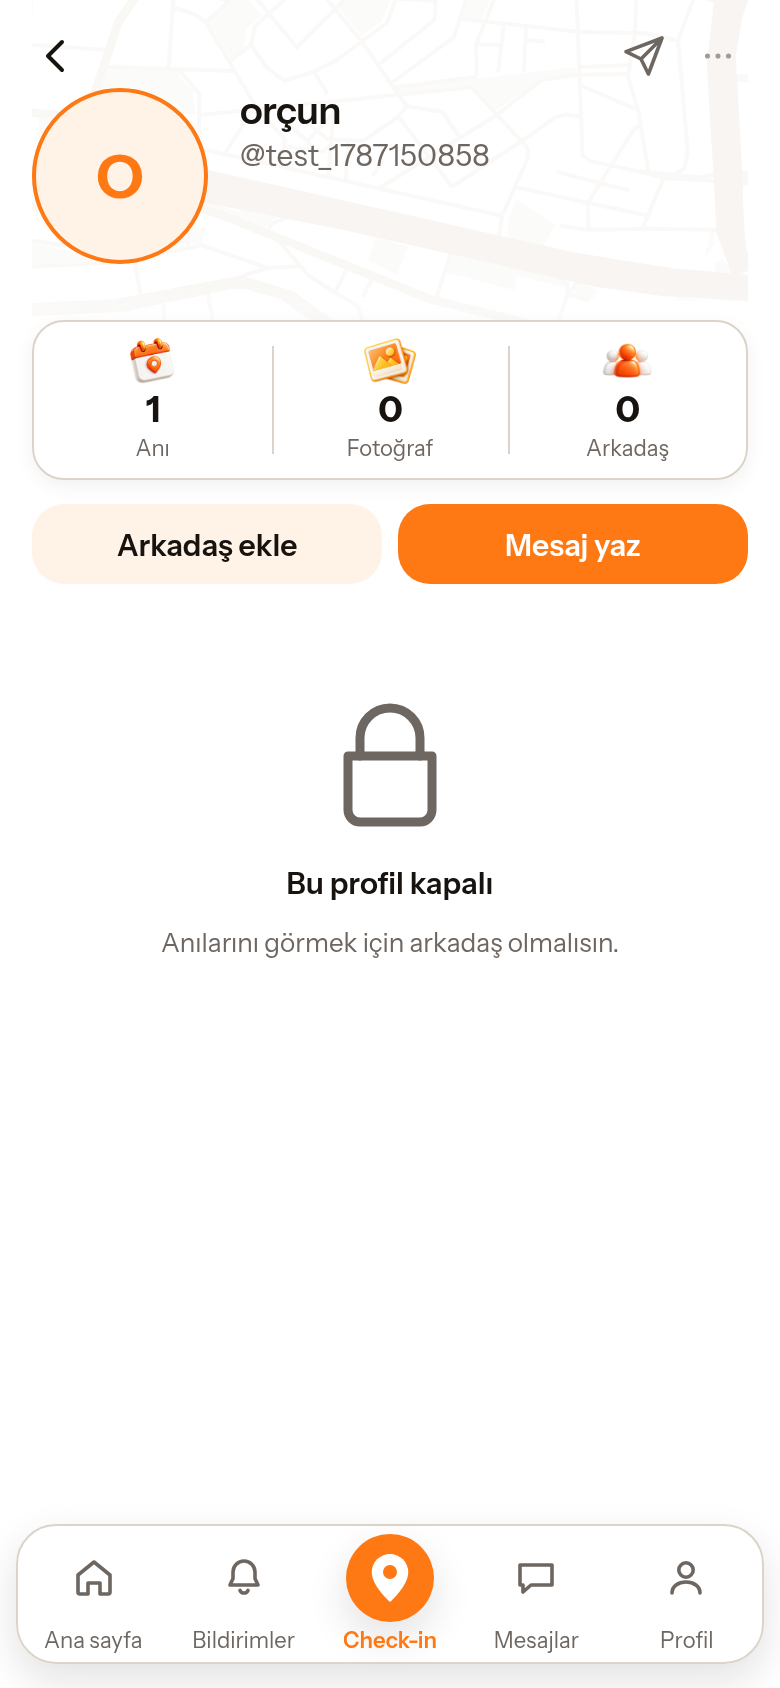
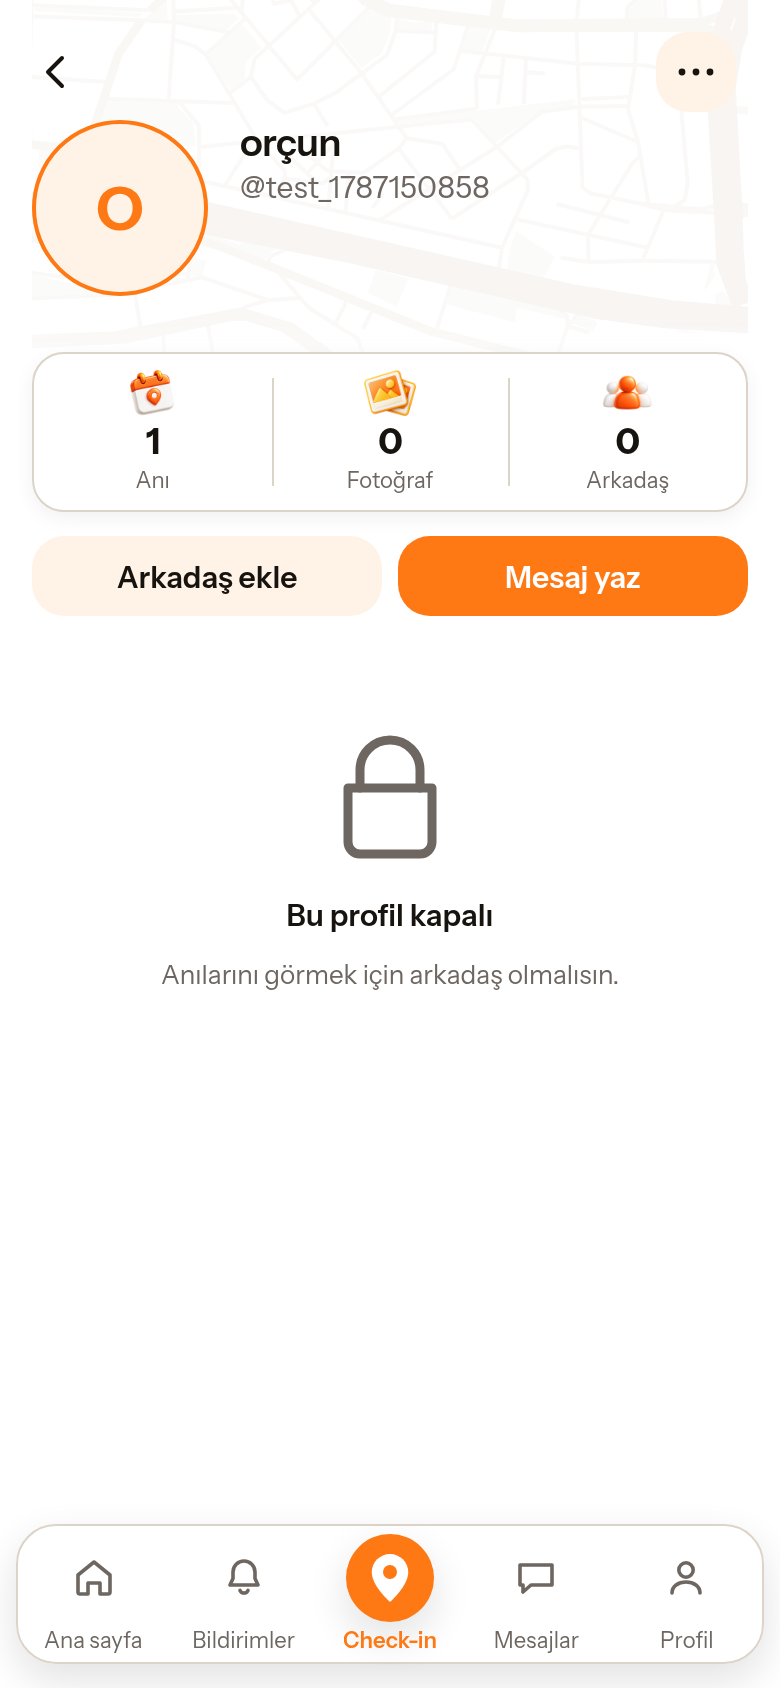
feat(kullanici): ust cubukta tek dugme - paylas menuye girdi, uc nokta belirginlesti
Kullanicinin istegi: "sag ustteki paylasma butonunu da kaldir, uc
noktaya basilinca profili paylas / engelle / sikayet et gelsin, uc
noktayi da daha belirgin bir hale getir".

- Paylas ikonu ust cubuktan kalkti; "Profili paylaş" menunun ILK
  satiri. Menu: Profili paylaş / Şikâyet et / Engelle (yikici en
  altta, kirmizi).
- Uc nokta artik seftali daire icinde (40 px, kesfetteki suzgec
  dugmesiyle ayni desen) ve koyu renkte - soluk gri ikon beyaz
  zeminde kayboluyordu.
- UcNoktaIkonu istege bagli boyut/renk aliyor; varsayilanlar
  DEGISMEDI, akis karti ve yorumlardaki menuler ayni kaldi.

Jest 76 paket / 1006 test; tsc'de yeni hata yok.

Claude-Session: https://claude.ai/code/session_014Lqh8jEsypFfB98DhKMVEt

diff --git a/mobil/src/app/kullanici/[id].tsx b/mobil/src/app/kullanici/[id].tsx
@@ -37,7 +37,6 @@ import { ProfilSayaclari } from '../../tasarim/ProfilSayaclari'
 import { ProfilHaritaZemini } from '../../tasarim/ProfilHaritaZemini'
 import { BasHarfAvatar } from '../../tasarim/BasHarfAvatar'
 import { InstagramSatiri } from '../../tasarim/InstagramSatiri'
-import { PaylasIkonu } from '../../tasarim/etkilesim-ikonlari'
 import { SiraRozeti } from '../../tasarim/SiraRozeti'
 import { CheckInKarti } from '../../tasarim/CheckInKarti'
 import { bolgeMetni } from '../../../lib/bolge'
@@ -157,6 +156,7 @@ const AVATAR_CAPI = 88
  */
 export default function KullaniciProfiliEkrani() {
   const stiller = useStiller(stilleriYap)
+  const renk = useRenk()
   const router = useRouter()
   const { t } = useDil()
   const { id } = useLocalSearchParams<{ id: string }>()
@@ -429,36 +429,27 @@ export default function KullaniciProfiliEkrani() {
       >
         <GeriIkonu />
       </Pressable>
-      {/* SAG UST: paylas + menu YAN YANA. Ikisi ayri cocuk olsaydi
-          `space-between` paylasi ortaya iterdi (olculdu). Paylas
-          kullanicinin tarifiyle 2026-09-13'te buraya gelmisti. */}
+      {/* SAG UST: TEK DUGME - uc nokta menusu (kullanicinin istegi
+          2026-09-17). Paylas ikonu buradan KALKTI, "Profili paylaş"
+          menunun ilk satiri oldu: ust cubukta iki ikon yan yana
+          dururken hangisinin ne yaptigi okunmuyordu.
+
+          Ikon SEFTALI DAIREDE ve daha koyu - kullanici "daha belirgin
+          bir hale getir" dedi; soluk gri uc nokta beyaz zeminde
+          kayboluyordu. Daire kesfetteki suzgec dugmesiyle ayni desen
+          (46 degil 40: ust cubukta geri okuyla ayni agirlikta
+          kalmali). */}
       {profil && (
-        <View style={stiller.ustSag}>
-          <Pressable
-            onPress={profiliPaylas}
-            accessibilityRole="button"
-            accessibilityLabel={t('kullanici.paylas')}
-            hitSlop={12}
-            testID="profili-paylas"
-          >
-            <PaylasIkonu boyut={24} />
-          </Pressable>
-          {/* SIKAYET VE ENGELLEME MENUDE (2026-09-17): sayfanin
-              dibindeki "Şikâyet et / Engelle" satiri kullanicinin
-              istegiyle kalkti. Ikisi de KALDIRILMADI - App Store
-              kullanici iceriigi olan uygulamalarda engelleme ve
-              sikayet yolunu SART kosuyor. Tek giris: menu; gizli
-              profilde de acik profilde de ayni yerde. */}
-          <Pressable
-            onPress={() => setGuvenlikMenusu(true)}
-            accessibilityRole="button"
-            accessibilityLabel={t('kullanici.secenekler')}
-            hitSlop={12}
-            testID="kullanici-menusu"
-          >
-            <UcNoktaIkonu />
-          </Pressable>
-        </View>
+        <Pressable
+          style={({ pressed }) => [stiller.menuDugmesi, pressed && stiller.menuDugmesiBasili]}
+          onPress={() => setGuvenlikMenusu(true)}
+          accessibilityRole="button"
+          accessibilityLabel={t('kullanici.secenekler')}
+          hitSlop={8}
+          testID="kullanici-menusu"
+        >
+          <UcNoktaIkonu boyut={24} renk={renk.metin} />
+        </Pressable>
       )}
     </View>
   )
@@ -773,6 +764,7 @@ export default function KullaniciProfiliEkrani() {
       <SecimPenceresi
         acikMi={guvenlikMenusu}
         secimler={[
+          { etiket: t('kullanici.paylas'), testID: 'menu-paylas', onSec: profiliPaylas },
           { etiket: t('kullanici.sikayetEt'), testID: 'menu-sikayet', onSec: sikayetEt },
           {
             etiket: t('kullanici.engelle'),
@@ -813,7 +805,15 @@ const stilleriYap = (renk: Renk) => StyleSheet.create({
   /* Geri solda, paylas sagda. Ust pay kendi profildeki cubukla ayni
      hizada durmasi icin kok duzenin verdigi guvenli alanin ustune
      yalnizca kucuk bir pay. */
-  ustSag: { flexDirection: 'row' as const, alignItems: 'center' as const, gap: bosluk.l },
+  menuDugmesi: {
+    width: 40,
+    height: 40,
+    borderRadius: yuvarlak.kart,
+    backgroundColor: renk.turuncuZemin,
+    alignItems: 'center' as const,
+    justifyContent: 'center' as const,
+  },
+  menuDugmesiBasili: { backgroundColor: renk.cizgi },
   ustCubuk: {
     flexDirection: 'row',
     alignItems: 'center',

diff --git a/mobil/src/tasarim/SecimPenceresi.tsx b/mobil/src/tasarim/SecimPenceresi.tsx
@@ -21,14 +21,24 @@ import { useRenk, useStiller } from './tema-baglami'
  * aciyor - menuden secmek isi yapmiyor, yalnizca soruyor.
  */
 
-/** Baslik satirindaki uc nokta. */
-export function UcNoktaIkonu() {
+/**
+ * Baslik satirindaki uc nokta.
+ *
+ * Boyut ve renk ISTEGE BAGLI; varsayilanlar (18 px, soluk) degismedi -
+ * akis kartindaki ve yorumlardaki menuler oyle. Baskasinin profilinde
+ * (2026-09-17) ikon tek basina bir dugme oldugu icin daha buyuk ve
+ * daha koyu veriliyor: kullanici "daha belirgin olsun" dedi.
+ */
+export function UcNoktaIkonu({ boyut = 18, renk: verilen }: { boyut?: number; renk?: string } = {}) {
   const renk = useRenk()
+  const c = verilen ?? renk.metinSoluk
+  // viewBox sabit (24): noktalarin yaricapi da sabit kaliyor, ikon
+  // `boyut` ile birlikte orantili buyuyor.
   return (
-    <Svg width={18} height={18} viewBox="0 0 24 24">
-      <Circle cx={5} cy={12} r={1.7} fill={renk.metinSoluk} />
-      <Circle cx={12} cy={12} r={1.7} fill={renk.metinSoluk} />
-      <Circle cx={19} cy={12} r={1.7} fill={renk.metinSoluk} />
+    <Svg width={boyut} height={boyut} viewBox="0 0 24 24">
+      <Circle cx={5} cy={12} r={1.7} fill={c} />
+      <Circle cx={12} cy={12} r={1.7} fill={c} />
+      <Circle cx={19} cy={12} r={1.7} fill={c} />
     </Svg>
   )
 }

diff --git a/mobil/__tests__/ekranlar/kullanici/[id].test.tsx b/mobil/__tests__/ekranlar/kullanici/[id].test.tsx
@@ -526,11 +526,20 @@ describe('KullaniciProfiliEkrani', () => {
    * PAYLAS SAG USTTE (kullanicinin tarifi 2026-09-13): "yukari saga
    * paylas ikonu olucak ... bu profilini birine paylasmak icin".
    */
-  it('sag ustteki paylas ikonu profil baglantisini paylasir', async () => {
+  /**
+   * PAYLAS IKONU UST CUBUKTAN KALKTI (kullanicinin istegi 2026-09-17):
+   * "Profili paylaş" artik menunun ilk satiri. Ust cubukta tek dugme
+   * var - uc nokta.
+   */
+  it('menudeki "Profili paylaş" profil baglantisini paylasir; ust cubukta ikon YOK', async () => {
     const paylasSpy = jest.spyOn(Share, 'share').mockResolvedValue({ action: 'sharedAction' } as never)
 
     await render(<KullaniciProfiliEkrani />)
-    await fireEvent.press(await screen.findByTestId('profili-paylas'))
+    await screen.findByText('Ada')
+    expect(screen.queryByTestId('profili-paylas')).toBeNull()
+
+    await fireEvent.press(screen.getByTestId('kullanici-menusu'))
+    await fireEvent.press(await screen.findByTestId('menu-paylas'))
 
     await waitFor(() => expect(paylasSpy).toHaveBeenCalled())
     const mesaj = (paylasSpy.mock.calls[0][0] as { message: string }).message

diff --git a/CLAUDE.md b/CLAUDE.md
@@ -174,8 +174,16 @@ menusune (iki halde de ayni yer, tek giris). App Store kullanici
 iceriigi olan uygulamalarda engelleme ve sikayet yolunu SART kosuyor;
 sayfadan tamamen kaldirmak magaza reddi riskiydi. Menu testle kilitli.
 
-Ust cubukta paylas + menu AYNI kapsayicida: ayri cocuk olunca
-`space-between` paylas ikonunu ortaya itiyordu (olculdu). Yeni sozluk
+**UST CUBUKTA TEK DUGME: UC NOKTA** (kullanicinin istegi, ayni gun).
+Paylas ikonu oradan kalkti, "Profili paylaş" menunun ILK satiri oldu -
+yan yana iki ikon dururken hangisinin ne yaptigi okunmuyordu. Menu:
+Profili paylaş / Şikâyet et / Engelle (yikici en altta). Ikon SEFTALI
+DAIREDE (40 px, kesfetteki suzgec dugmesiyle ayni desen) ve `renk.metin`
+ile koyu: soluk gri uc nokta beyaz zeminde kayboluyordu.
+`UcNoktaIkonu` artik istege bagli `boyut`/`renk` aliyor; VARSAYILANLAR
+DEGISMEDI, yani akis kartindaki ve yorumlardaki menuler ayni.
+
+Yeni sozluk
 anahtari `kullanici.secenekler` yedi dilde; etiket "Profil
 seçenekleri" - kartin "Paylaşım seçenekleri" etiketiyle CAKISMASIN
 diye (jest `getByLabelText` tam eslesme ariyor, bir test bu yuzden

diff --git a/slooin-projesi.md b/slooin-projesi.md
@@ -254,8 +254,10 @@ Yeni oturum bunlari bilerek baslar.
 
 **Son bitirilen is (2026-09-17, YAYINLANMADI):** GIZLI profil
 gorunumu sadelesti (karar 97) - o halde sayaclar butonlarin ustunde;
-acik profilin duzeni degismedi. Sikayet ve engelleme sayfanin
-dibinden ust cubuktaki uc nokta menusune tasindi (magaza sarti).
+acik profilin duzeni degismedi. Ust cubukta tek dugme kaldi:
+uc nokta (seftali daire). Menu = Profili paylaş / Şikâyet et /
+Engelle; sikayet ve engelleme sayfanin dibinden oraya tasindi (magaza
+sarti), paylas ikonu da menuye girdi.
 
 **Ayni gun daha once (YAYINLANMADI):** buyuk acilan
 fotografin sol altinda paylasan kisi, mekan ve zaman gosteriliyor

diff --git a/docs/konusma-gunlugu.md b/docs/konusma-gunlugu.md
@@ -1296,4 +1296,8 @@ Kalan takip isleri: `docs/plan1-takip-isleri.md`.
     (once butonlar, sonra sayaclar, "Anılar / En sık" sekmeleri) eski
     haline dondu; yeni sira yalnizca gizli profilde. Sikayet ve
     engelleme SILINMEDI, ust cubuktaki uc nokta menusune tasindi (iki
-    halde de ayni yer): magaza kurali bu yolu sart kosuyor.
+    halde de ayni yer): magaza kurali bu yolu sart kosuyor. Ayni gun ucuncu istek:
+    ust cubuktaki paylas ikonu da kalkti, "Profili paylaş" menunun ilk
+    satiri oldu ve uc nokta seftali daire icinde koyu renkle belirgin
+    hale getirildi.
+
